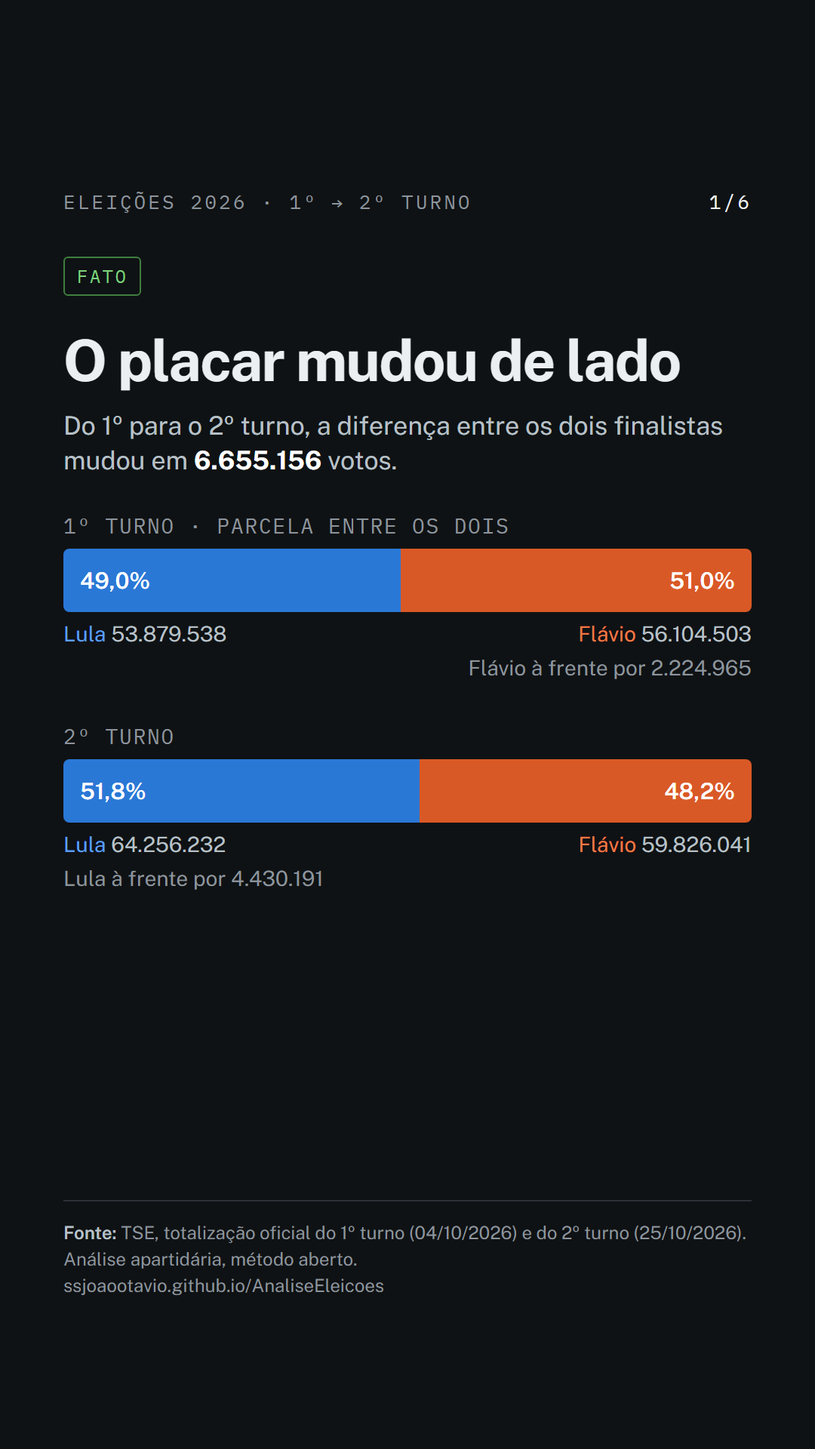
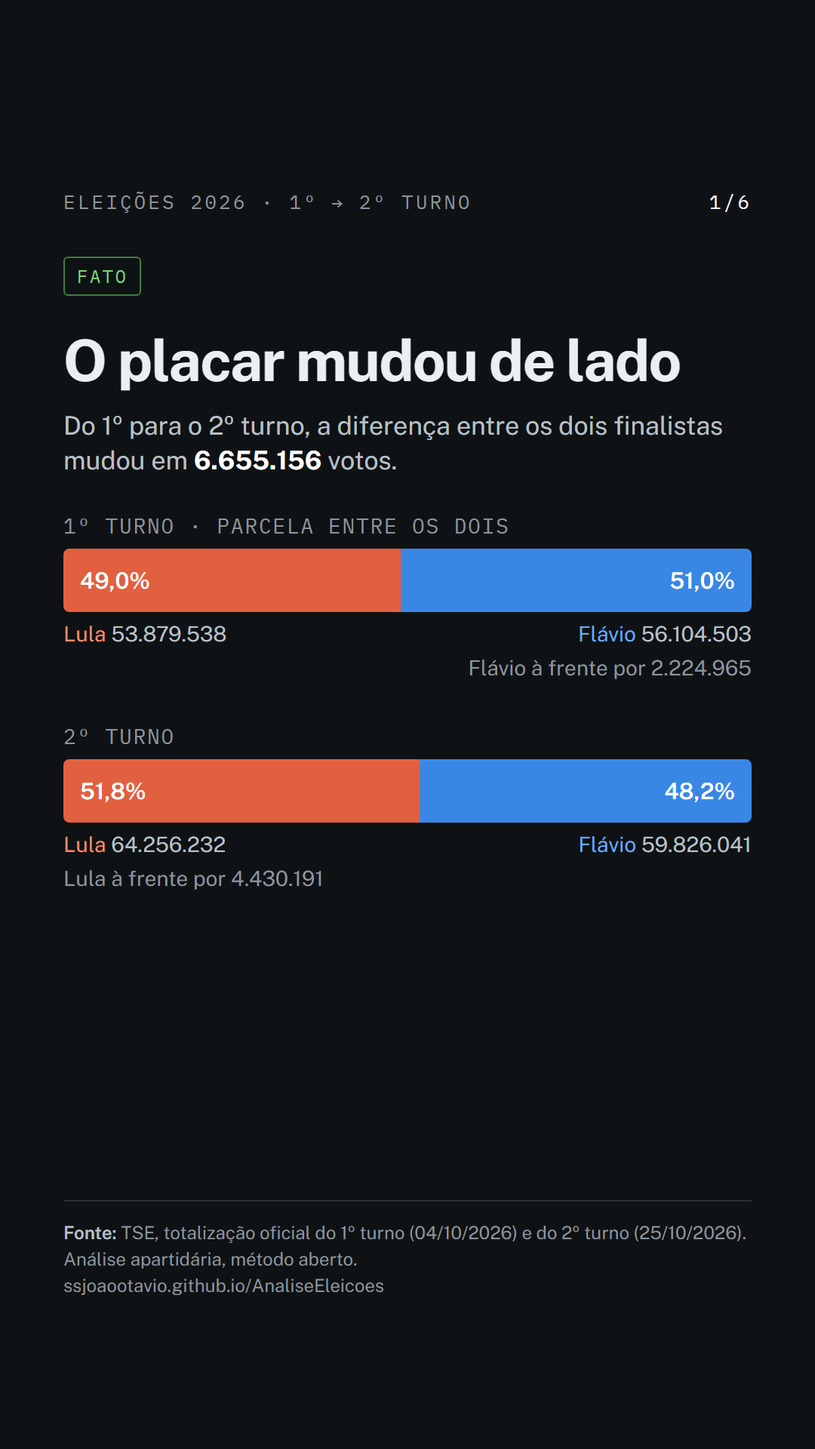
Relatório: ajustes da revisão de design
- Cores: Lula vermelho-alaranjado, Flávio azul, mesma luminosidade
- Explica pontos percentuais; 'não interpretar' vira 'instável'
- Tabelas simétricas (líder e % de cada turno) no lugar de 'Lula no duelo'
- UFs e abstenção em barras pareadas 1º/2º turno
- Matriz P3: células instáveis só com faixa; aviso de limite do modelo
- Municípios: trocas de líder nas duas direções no lugar da dispersão
- Stories regerados com as cores novas

Changed region(s): [[0.0611, 0.5, 0.9472, 0.5938], [0.0611, 0.375, 0.9472, 0.4688]]

diff --git a/relatorio_eleicoes_2026.html b/relatorio_eleicoes_2026.html
@@ -1,20 +1,21 @@
 <!doctype html>
 <html lang="pt-BR"><head><meta charset="utf-8"><meta name="viewport" content="width=device-width,initial-scale=1,viewport-fit=cover"><title>Análise Eleições 2026</title><link rel="preconnect" href="https://fonts.googleapis.com"><link rel="preconnect" href="https://fonts.gstatic.com" crossorigin><link rel="stylesheet" href="https://fonts.googleapis.com/css2?family=IBM+Plex+Mono:wght@400;500&family=Public+Sans:wght@400;500;600;700&display=swap"><style>
 /* Layout: relatório de leitura em coluna única, seções separadas por régua fina; gráficos sem moldura; só a matriz do P3 e as dicas flutuantes têm caixa.
-   Cor: cromo neutro azulado-cinza; os únicos matizes de dados são os dois finalistas (azul e laranja, mesmo peso) e cinzas para o resto. */
+   Cor: cromo neutro azulado-cinza; os únicos matizes de dados são os dois finalistas (Lula vermelho-alaranjado, Flávio azul, mesma saturação e luminosidade) e cinzas para o resto.
+   Todo gráfico com os dois finalistas escreve o nome junto da cor, para não depender só dela. */
 :root{
   --bg:#f4f5f6; --surface:#ffffff; --ink:#13171b; --ink2:#464e56; --muted:#6f7780; --line:#d9dde1; --grid:#e8ebee; --wash:#eceef0;
-  --lula:#2a78d6; --flavio:#eb6834; --outros:#7f8a96; --bn:#aab3bd; --abs:#d5dae0;
+  --lula:#d24a2b; --flavio:#2a78d6; --outros:#7f8a96; --bn:#aab3bd; --abs:#d5dae0;
   --good:#0a7d0a; --warn:#a15c00; --crit:#b3261e;
   --font:'Public Sans',system-ui,-apple-system,'Segoe UI',Roboto,sans-serif; --mono:'IBM Plex Mono',ui-monospace,SFMono-Regular,Menlo,monospace;
 }
 @media (prefers-color-scheme:dark){:root:not([data-theme="light"]){
   --bg:#0f1214; --surface:#161a1d; --ink:#eceff1; --ink2:#b9c0c7; --muted:#8c949c; --line:#2b3136; --grid:#22272b; --wash:#1d2226;
-  --lula:#3987e5; --flavio:#d95926; --outros:#8793a0; --bn:#5d6772; --abs:#343b42;
+  --lula:#e2603f; --flavio:#3987e5; --outros:#8793a0; --bn:#5d6772; --abs:#343b42;
   --good:#4cc24c; --warn:#e0a13a; --crit:#f08a82; color-scheme:dark;}}
 :root[data-theme="dark"]{
   --bg:#0f1214; --surface:#161a1d; --ink:#eceff1; --ink2:#b9c0c7; --muted:#8c949c; --line:#2b3136; --grid:#22272b; --wash:#1d2226;
-  --lula:#3987e5; --flavio:#d95926; --outros:#8793a0; --bn:#5d6772; --abs:#343b42;
+  --lula:#e2603f; --flavio:#3987e5; --outros:#8793a0; --bn:#5d6772; --abs:#343b42;
   --good:#4cc24c; --warn:#e0a13a; --crit:#f08a82; color-scheme:dark;}
 *{box-sizing:border-box}
 body{background:var(--bg);color:var(--ink);font-family:var(--font);font-size:15px;line-height:1.55;margin:0;
@@ -171,12 +172,13 @@ canvas{max-width:100%;display:block;border-bottom:1px solid var(--line);border-l
 <!-- ================= P1 UF ================= -->
 <section id="uf">
   <div class="head"><div class="eyebrow">P1 · Unidades da Federação</div><h2>Como cada UF se moveu</h2><div class="tags"><span class="tag fato">Fato</span></div></div>
+  <p class="callout"><b>Ponto percentual</b> é a diferença entre duas porcentagens. Se a abstenção foi de 21% para 19%, ela caiu <b>2 pontos percentuais</b> (e não 2%). Nas tabelas, “Diferença” é quantos votos o líder teve a mais que o outro finalista.</p>
   <div class="fig" style="margin-top:0"><h3>Parcela de cada finalista no duelo, 1º e 2º turno</h3>
-    <div class="sub">Votos do finalista divididos pela soma dos votos dos dois. Círculo vazio: 1º turno. Círculo cheio: 2º turno. A cor indica quem liderava naquele turno; 50% é o empate. Ordenado pelo 2º turno.</div>
-    <div class="legend"><span><i class="sw" style="background:var(--lula)"></i>Lula na frente</span><span><i class="sw" style="background:var(--flavio)"></i>Flávio na frente</span><span class="muted">○ 1º turno &nbsp; ● 2º turno</span></div>
+    <div class="sub">Para cada UF, uma barra por turno: votos de cada finalista divididos pela soma dos votos dos dois. A linha tracejada marca 50%, o empate. Ordenado pelo 2º turno. “trocou” marca a UF em que o líder mudou.</div>
+    <div class="legend"><span><i class="sw" style="background:var(--lula)"></i>Lula</span><span><i class="sw" style="background:var(--flavio)"></i>Flávio</span><span class="muted">barra de cima: 1º turno · barra de baixo: 2º turno</span></div>
     <div class="chart" id="ch-dumb"></div><div id="tv-dumb"></div></div>
-  <div class="fig"><h3>Variação da abstenção, em pontos percentuais</h3>
-    <div class="sub">Abstenção do 2º turno menos a do 1º, sobre os aptos de cada UF. Barra à esquerda: menos abstenção no 2º turno.</div>
+  <div class="fig"><h3>Abstenção por UF, 1º e 2º turno</h3>
+    <div class="sub">Parte dos eleitores aptos de cada UF que não foi votar. Barra de cima: 1º turno. Barra de baixo, mais forte: 2º turno. Ordenado pelo 2º turno.</div>
     <div class="chart" id="ch-abst"></div><div id="tv-abst"></div></div>
   <div class="fig"><h3>Tabela completa por UF</h3><div class="sub">Clique no cabeçalho para ordenar. “Exterior” é o voto no exterior (ZZ).</div><div class="scroll" id="tb-uf"></div></div>
 </section>
@@ -187,20 +189,20 @@ canvas{max-width:100%;display:block;border-bottom:1px solid var(--line);border-l
   <div class="tiles" id="mun-tiles"></div>
   <p class="muted" style="font-size:13.5px;margin-top:12px" id="mun-note"></p>
 
-  <div class="fig"><h3>Cada município: parcela no duelo, 1º contra 2º turno</h3>
-    <div class="sub">Cada ponto é um município (duelo com pelo menos 100 votos nos dois turnos). Acima da diagonal, a parcela de Lula no duelo cresceu; abaixo, a de Flávio cresceu. Os anéis marcam as capitais. Passe o mouse ou toque para identificar.</div>
-    <div class="chart" id="ch-scatter"></div><div class="muted" style="font-size:12.5px" id="sc-note"></div></div>
+  <div class="fig"><h3>Municípios que trocaram de líder entre os turnos</h3>
+    <div class="sub">As duas direções, no mesmo formato. Líder = quem teve mais votos entre os dois finalistas no município.</div>
+    <div class="cols2" id="flips"></div></div>
 
   <div class="fig"><h3>Capitais</h3><div class="scroll" id="tb-cap"></div></div>
 
   <div class="fig"><h3>Explorar qualquer município</h3>
-    <div class="sub">Busque pelo nome ou filtre. “Margem curta” são os municípios em que a diferença entre os finalistas no 2º turno foi de até 10 pontos percentuais do duelo.</div>
+    <div class="sub">Busque pelo nome ou filtre. “Margem curta” são os municípios em que a diferença entre os finalistas no 2º turno foi de até 10 pontos percentuais (por exemplo, 55% contra 45%).</div>
     <div class="controls">
       <input type="search" id="q" placeholder="Buscar município" aria-label="Buscar município">
       <select id="f-uf" aria-label="UF"><option value="">Todas as UFs</option></select>
       <label class="ck"><input type="checkbox" id="f-cap"> Só capitais</label>
       <label class="ck"><input type="checkbox" id="f-marg"> Margem curta no 2º turno</label>
-      <label class="ck"><input type="checkbox" id="f-flip"> Só quem mudou de líder</label>
+      <label class="ck"><input type="checkbox" id="f-flip"> Só quem trocou de líder</label>
     </div>
     <div class="scroll" id="tb-mun"></div><div class="pager" id="pg-mun"></div></div>
 </section>
@@ -208,7 +210,7 @@ canvas{max-width:100%;display:block;border-bottom:1px solid var(--line);border-l
 <!-- ================= P3 MIGRACAO ================= -->
 <section id="migracao">
   <div class="head"><div class="eyebrow">P3 · Migração entre turnos</div><h2>Para onde foram os eleitores de cada grupo</h2><div class="tags"><span class="tag est">Estimativa</span><span class="tag fato">Limites aritméticos</span></div></div>
-  <p>O TSE não publica como cada eleitor votou nos dois turnos, só os totais por município. A matriz abaixo é uma <b>estimativa</b> feita a partir da variação entre os municípios (inferência ecológica). Cada célula mostra a estimativa nacional, a faixa que ela ocupa quando o cálculo é refeito de sete jeitos e uma nota de robustez. <b>Se a faixa é larga, o dado não identifica a célula e ela não deve ser interpretada.</b></p>
+  <p>O TSE não publica como cada eleitor votou nos dois turnos, só os totais por município. A matriz abaixo é uma <b>estimativa</b> feita a partir da variação entre os municípios (inferência ecológica). Cada célula mostra a estimativa nacional, a faixa que ela ocupa quando o cálculo é refeito de sete jeitos e uma nota de robustez. <b>Se a faixa é larga, a célula aparece como “instável”: o dado não identifica esse fluxo, então mostramos só a faixa, sem número único.</b> Células marcadas “no limite do modelo” encostaram em 0% ou 100%, valores que o modelo não pode ultrapassar; o número pode ser efeito dessa regra.</p>
   <div class="controls"><div class="seg" id="seg-orig" role="group" aria-label="Número de origens">
     <button aria-pressed="true" data-g="5_ORIGENS">5 origens</button><button aria-pressed="false" data-g="4_ORIGENS_OUTROS_JUNTO_COM_BRANCO_NULO">4 origens (outros + branco/nulo juntos)</button></div></div>
   <div class="scroll"><div class="matrix" id="matrix" role="group" aria-label="Matriz de transição estimada"></div></div>
@@ -223,7 +225,7 @@ canvas{max-width:100%;display:block;border-bottom:1px solid var(--line);border-l
     <div class="scroll" id="tb-sim"></div>
     <p class="callout warn" style="margin-top:14px">O intervalo de bootstrap mede só o ruído de amostragem entre municípios. Quando o comportamento dos eleitores depende do perfil político do município, ele deixa de cobrir o valor verdadeiro. Por isso esta página não o chama de intervalo de confiança. O cenário extremo é um teste de estresse nosso, não uma afirmação sobre a eleição real.</p></div>
 
-  <div class="fig"><h3>Balanço por UF</h3><div class="sub">Variação líquida de eleitores por categoria. “Parcela de Lula no ganho dos dois” só aparece quando os dois finalistas ganharam votos na UF.</div><div class="scroll" id="tb-bal"></div></div>
+  <div class="fig"><h3>Balanço por UF</h3><div class="sub">Variação líquida de eleitores por categoria. A última coluna divide o ganho somado dos dois finalistas entre eles e só aparece quando os dois ganharam votos na UF.</div><div class="scroll" id="tb-bal"></div></div>
 </section>
 
 <!-- ================= P4 HORARIO ================= -->
@@ -341,7 +343,7 @@ const leaderChip=(l,td)=>{const w=el('span',{class:'chip'},td);if(l==='L'||l==='
   tile('hero','var(--lula)','Lula, 2º turno',N(r2.L),fx(pv(r2.L,r2),2)+'% dos válidos · 1º turno: '+fx(pv(r1.L,r1),2)+'%');
   tile('hero','var(--flavio)','Flávio, 2º turno',N(r2.F),fx(pv(r2.F,r2),2)+'% dos válidos · 1º turno: '+fx(pv(r1.F,r1),2)+'%');
   tile('',null,'Margem no 2º turno',N(Math.abs(r2.L-r2.F)),'votos de diferença · '+fx(Math.abs(p(r2.L,r2)-p(r2.F,r2)),2)+' pontos percentuais do duelo');
-  tile('',null,'Abstenção',fx(r2.abst/r2.aptos*100,2)+'%','1º turno: '+fx(r1.abst/r1.aptos*100,2)+'% · variação '+sg((r2.abst/r2.aptos-r1.abst/r1.aptos)*100,2,' pp'));
+  tile('',null,'Abstenção',fx(r2.abst/r2.aptos*100,2)+'%','1º turno: '+fx(r1.abst/r1.aptos*100,2)+'% · variação '+sg((r2.abst/r2.aptos-r1.abst/r1.aptos)*100,2,' pontos percentuais'));
   tile('',null,'Branco e nulo',N(v2.BN),'1º turno: '+N(v1.BN)+' · variação '+sN(v2.BN-v1.BN));
   tile('',null,'Comparecimento',N(r2.comp),'1º turno: '+N(r1.comp)+' · variação '+sN(r2.comp-r1.comp));
 })();
@@ -402,47 +404,53 @@ tableView('tv-cand',['Candidato','Nº','Votos','% dos válidos'],D.cand1.filter(
 /* ---------- UF ---------- */
 const UF=D.uf.map(u=>{const a=u.r1,b=u.r2;const o={uf:u.uf,a,b};
   o.s1=a.L/(a.L+a.F)*100;o.s2=b.L/(b.L+b.F)*100;o.ab1=a.abst/a.aptos*100;o.ab2=b.abst/b.aptos*100;
-  o.l1=a.L>a.F?'L':a.F>a.L?'F':'=';o.l2=b.L>b.F?'L':b.F>b.L?'F':'=';o.dAb=o.ab2-o.ab1;o.dL=b.L-a.L;o.dF=b.F-a.F;return o;});
+  o.l1=a.L>a.F?'L':a.F>a.L?'F':'=';o.l2=b.L>b.F?'L':b.F>b.L?'F':'=';o.dAb=o.ab2-o.ab1;o.dL=b.L-a.L;o.dF=b.F-a.F;
+  o.df1=Math.abs(a.L-a.F);o.df2=Math.abs(b.L-b.F);return o;});
+/* parcela do líder no duelo (os dois finalistas tratados igual) */
+const leadPct=(l,s)=>s==null?null:(l==='L'?s:l==='F'?100-s:50);
+const leaderPct=(l,s,td)=>{leaderChip(l,td);const p=leadPct(l,s);if(p!=null&&l!=='=')td.appendChild(document.createTextNode(' '+fx(p,1)+'%'));};
+const LNAME=l=>l==='L'?'Lula':l==='F'?'Flávio':'—';
+/* barra 100%: Lula à esquerda, Flávio à direita, cada um com nome e % */
+function duelBar(g,x,y,w,h,s,showText){
+  const wl=w*s/100;S('rect',{x:x,y:y,width:Math.max(wl-1,0),height:h,fill:css('--lula')},g);S('rect',{x:x+wl+1,y:y,width:Math.max(w-wl-1,0),height:h,fill:css('--flavio')},g);
+  if(showText){S('text',{x:x+6,y:y+h/2+4,fill:'#fff','font-size':11,'font-weight':600},g,fx(s,1)+'%');S('text',{x:x+w-6,y:y+h/2+4,'text-anchor':'end',fill:'#fff','font-size':11,'font-weight':600},g,fx(100-s,1)+'%');}
+}
 function drawDumb(){
-  const host=document.getElementById('ch-dumb');host.textContent='';const W=host.clientWidth||320,narrow=W<520,labW=narrow?58:78,pad=14,rh=24,H=UF.length*rh+44;
-  const rows=UF.slice().sort((x,y)=>y.s2-x.s2);
-  const lo=Math.floor(Math.min(...rows.map(r=>Math.min(r.s1,r.s2)))/5)*5-2,hi=Math.ceil(Math.max(...rows.map(r=>Math.max(r.s1,r.s2)))/5)*5+2,tw=W-labW-pad;
-  const X=v=>labW+(v-lo)/(hi-lo)*tw;const svg=S('svg',{viewBox:'0 0 '+W+' '+H,width:W,height:H,role:'img','aria-label':'Parcela de cada finalista no duelo por UF'},host);
-  for(let t=Math.ceil(lo/10)*10;t<=hi;t+=10){S('line',{x1:X(t),x2:X(t),y1:26,y2:H-18,stroke:css(t===50?'--ink2':'--grid'),'stroke-width':t===50?1.5:1},svg);S('text',{x:X(t),y:H-4,'text-anchor':'middle',class:'mono'},svg,t+'%');}
-  S('text',{x:X(50)-6,y:12,'text-anchor':'end',class:'mono'},svg,'← mais Flávio');S('text',{x:X(50)+6,y:12,'text-anchor':'start',class:'mono'},svg,'mais Lula →');
-  rows.forEach((r,i)=>{const y=30+i*rh,cy=y+rh/2-1;const g=S('g',{class:'hit',tabindex:0},svg);
-    S('rect',{x:0,y:y,width:W,height:rh,fill:'transparent'},g);S('rect',{x:0,y:y,width:W,height:rh,fill:'none',class:'focusring'},g);
-    S('text',{x:0,y:cy+4,class:'strong'},g,UFN(r.uf));
-    const c1=css(r.l1==='L'?'--lula':'--flavio'),c2=css(r.l2==='L'?'--lula':'--flavio');
-    S('line',{x1:X(r.s1),x2:X(r.s2),y1:cy,y2:cy,stroke:css('--muted'),'stroke-width':2,'stroke-linecap':'round'},g);
-    S('circle',{cx:X(r.s1),cy:cy,r:4.5,fill:css('--bg'),stroke:c1,'stroke-width':2},g);
-    S('circle',{cx:X(r.s2),cy:cy,r:5,fill:c2,stroke:css('--bg'),'stroke-width':2},g);
-    if(r.l1!==r.l2)S('text',{x:X(Math.max(r.s1,r.s2))+10,y:cy+4,class:'mono'},g,'mudou de líder');
-    bindTip(g,UFN(r.uf),[['Lula no duelo, 1º turno',fx(r.s1,1)+'%'],['Lula no duelo, 2º turno',fx(r.s2,1)+'%'],['Flávio no duelo, 1º turno',fx(100-r.s1,1)+'%'],['Flávio no duelo, 2º turno',fx(100-r.s2,1)+'%'],['Variação de Lula',sg(r.s2-r.s1,1,' pp')]]);});
-  /* ajuste: eixo no rodapé */
+  const host=document.getElementById('ch-dumb');host.textContent='';const W=host.clientWidth||320,narrow=W<520,labW=narrow?62:84,pad=8,bh=15,rh=bh*2+16,H=UF.length*rh+30;
+  const rows=UF.slice().sort((x,y)=>y.s2-x.s2),tw=W-labW-pad;
+  const svg=S('svg',{viewBox:'0 0 '+W+' '+H,width:W,height:H,role:'img','aria-label':'Parcela de Lula e de Flávio no duelo por UF, 1º e 2º turno'},host);
+  S('text',{x:labW,y:12,class:'mono'},svg,'Lula ←');S('text',{x:W-pad,y:12,'text-anchor':'end',class:'mono'},svg,'→ Flávio');
+  const x50=labW+tw/2;
+  rows.forEach((r,i)=>{const y=22+i*rh;const g=S('g',{class:'hit',tabindex:0},svg);
+    S('rect',{x:0,y:y,width:W,height:rh-4,fill:'transparent'},g);S('rect',{x:0,y:y,width:W,height:rh-4,fill:'none',class:'focusring'},g);
+    S('text',{x:0,y:y+bh-2,class:'strong'},g,UFN(r.uf));
+    S('text',{x:0,y:y+bh*2+1,class:'mono'},g,r.l1!==r.l2?'trocou':'');
+    S('text',{x:labW-6,y:y+bh-3,'text-anchor':'end',class:'mono'},g,'1º');S('text',{x:labW-6,y:y+bh*2+1,'text-anchor':'end',class:'mono'},g,'2º');
+    duelBar(g,labW,y,tw,bh,r.s1,tw>220);duelBar(g,labW,y+bh+3,tw,bh,r.s2,tw>220);
+    bindTip(g,UFN(r.uf),[['Líder no 1º turno',LNAME(r.l1)+' · '+fx(leadPct(r.l1,r.s1),1)+'%'],['Líder no 2º turno',LNAME(r.l2)+' · '+fx(leadPct(r.l2,r.s2),1)+'%'],['Lula, 1º e 2º',fx(r.s1,1)+'% · '+fx(r.s2,1)+'%'],['Flávio, 1º e 2º',fx(100-r.s1,1)+'% · '+fx(100-r.s2,1)+'%'],['Diferença, 1º e 2º',N(r.df1)+' · '+N(r.df2)+' votos']]);});
+  S('line',{x1:x50,x2:x50,y1:16,y2:H-2,stroke:css('--ink'),'stroke-width':1,'stroke-dasharray':'3 3',opacity:.6},svg);
+  S('text',{x:x50,y:12,'text-anchor':'middle',class:'mono'},svg,'50%');
 }
 function drawAbst(){
-  const host=document.getElementById('ch-abst');host.textContent='';const W=host.clientWidth||320,narrow=W<520,labW=narrow?58:78,pad=60,rh=20,rows=UF.slice().sort((a,b)=>a.dAb-b.dAb),H=rows.length*rh+10;
-  const mx=Math.max(...rows.map(r=>Math.abs(r.dAb))),mn=Math.min(...rows.map(r=>r.dAb)),hi=Math.max(...rows.map(r=>r.dAb));
-  const tw=W-labW-pad*1.4,sc=tw/(hi-mn),x0=labW+(-mn)*sc+pad*.5;
-  const svg=S('svg',{viewBox:'0 0 '+W+' '+H,width:W,height:H,role:'img','aria-label':'Variação da abstenção por UF'},host);
-  S('line',{x1:x0,x2:x0,y1:0,y2:H,stroke:css('--ink2')},svg);
-  rows.forEach((r,i)=>{const y=4+i*rh,w=Math.abs(r.dAb)*sc;const g=S('g',{class:'hit',tabindex:0},svg);
-    S('rect',{x:0,y:y,width:W,height:rh,fill:'transparent'},g);
-    S('text',{x:0,y:y+14,class:'strong'},g,UFN(r.uf));
-    const x=r.dAb>=0?x0:x0-w;S('rect',{x:x,y:y+4,width:Math.max(w,1),height:11,fill:css('--ink2')},g);S('rect',{x:x,y:y+4,width:Math.max(w,1),height:11,fill:'none',class:'focusring'},g);
-    S('text',{x:r.dAb>=0?x0+w+5:x0-w-5,y:y+14,'text-anchor':r.dAb>=0?'start':'end'},g,sg(r.dAb,2));
-    bindTip(g,UFN(r.uf),[['Abstenção, 1º turno',fx(r.ab1,2)+'%'],['Abstenção, 2º turno',fx(r.ab2,2)+'%'],['Variação',sg(r.dAb,2,' pp')]]);});
+  const host=document.getElementById('ch-abst');host.textContent='';const W=host.clientWidth||320,narrow=W<520,labW=narrow?62:84,pad=56,bh=11,rh=bh*2+12,rows=UF.slice().sort((a,b)=>b.ab2-a.ab2),H=rows.length*rh+8;
+  const mx=Math.max(...rows.map(r=>Math.max(r.ab1,r.ab2))),tw=W-labW-pad,X=v=>v/mx*tw;
+  const svg=S('svg',{viewBox:'0 0 '+W+' '+H,width:W,height:H,role:'img','aria-label':'Abstenção por UF, 1º e 2º turno'},host);
+  rows.forEach((r,i)=>{const y=4+i*rh;const g=S('g',{class:'hit',tabindex:0},svg);
+    S('rect',{x:0,y:y,width:W,height:rh-2,fill:'transparent'},g);S('rect',{x:0,y:y,width:W,height:rh-2,fill:'none',class:'focusring'},g);
+    S('text',{x:0,y:y+bh+5,class:'strong'},g,UFN(r.uf));
+    [[r.ab1,'--muted',0,'1º'],[r.ab2,'--ink2',bh+2,'2º']].forEach(([v,c,dy,t])=>{S('rect',{x:labW,y:y+dy,width:Math.max(X(v),1),height:bh,fill:css(c),opacity:t==='1º'?.55:1},g);S('text',{x:labW+X(v)+5,y:y+dy+bh-1,class:'mono'},g,t+' '+fx(v,1)+'%');});
+    bindTip(g,UFN(r.uf),[['Abstenção, 1º turno',fx(r.ab1,2)+'%'],['Abstenção, 2º turno',fx(r.ab2,2)+'%'],['Diferença',sg(r.dAb,2,' pontos percentuais')]]);});
 }
-tableView('tv-dumb',['UF','Lula no duelo, 1º','Lula no duelo, 2º','Variação (pp)','Líder 1º','Líder 2º'],UF.map(r=>[UFN(r.uf),fx(r.s1,2)+'%',fx(r.s2,2)+'%',sg(r.s2-r.s1,2),r.l1==='L'?'Lula':r.l1==='F'?'Flávio':'—',r.l2==='L'?'Lula':r.l2==='F'?'Flávio':'—']));
-tableView('tv-abst',['UF','Abstenção 1º','Abstenção 2º','Variação (pp)'],UF.map(r=>[UFN(r.uf),fx(r.ab1,2)+'%',fx(r.ab2,2)+'%',sg(r.dAb,2)]));
+tableView('tv-dumb',['UF','Líder 1º','% do líder 1º','Líder 2º','% do líder 2º','Diferença 1º (votos)','Diferença 2º (votos)'],UF.map(r=>[UFN(r.uf),LNAME(r.l1),fx(leadPct(r.l1,r.s1),2)+'%',LNAME(r.l2),fx(leadPct(r.l2,r.s2),2)+'%',N(r.df1),N(r.df2)]));
+tableView('tv-abst',['UF','Abstenção 1º','Abstenção 2º','Diferença (pontos percentuais)'],UF.map(r=>[UFN(r.uf),fx(r.ab1,2)+'%',fx(r.ab2,2)+'%',sg(r.dAb,2)]));
 sortable(document.getElementById('tb-uf'),[
  {k:'uf',label:'UF',left:true,first:1,f:r=>UFN(r.uf)},
- {k:'a',label:'Lula 1º',v:r=>r.a.L,f:r=>N(r.a.L)},{k:'b',label:'Lula 2º',v:r=>r.b.L,f:r=>N(r.b.L)},{k:'dL',label:'Δ Lula',f:r=>sN(r.dL)},
- {k:'a2',label:'Flávio 1º',v:r=>r.a.F,f:r=>N(r.a.F)},{k:'b2',label:'Flávio 2º',v:r=>r.b.F,f:r=>N(r.b.F)},{k:'dF',label:'Δ Flávio',f:r=>sN(r.dF)},
- {k:'s2',label:'Lula no duelo 2º',f:r=>fx(r.s2,1)+'%'},{k:'ab1',label:'Abst. 1º',f:r=>fx(r.ab1,1)+'%'},{k:'ab2',label:'Abst. 2º',f:r=>fx(r.ab2,1)+'%'},
- {k:'l1',label:'Líder 1º',left:true,r:(r,td)=>leaderChip(r.l1,td)},
- {k:'l2',label:'Líder 2º',left:true,r:(r,td)=>{leaderChip(r.l2,td);if(r.l1!==r.l2)el('span',{class:'flip'},td,'mudou');}}
+ {k:'l1',label:'Líder 1º (%)',left:true,r:(r,td)=>leaderPct(r.l1,r.s1,td)},
+ {k:'l2',label:'Líder 2º (%)',left:true,r:(r,td)=>{leaderPct(r.l2,r.s2,td);if(r.l1!==r.l2)el('span',{class:'flip'},td,'trocou');}},
+ {k:'df1',label:'Diferença 1º',f:r=>N(r.df1)},{k:'df2',label:'Diferença 2º',f:r=>N(r.df2)},
+ {k:'a',label:'Lula 1º',v:r=>r.a.L,f:r=>N(r.a.L)},{k:'b',label:'Lula 2º',v:r=>r.b.L,f:r=>N(r.b.L)},
+ {k:'a2',label:'Flávio 1º',v:r=>r.a.F,f:r=>N(r.a.F)},{k:'b2',label:'Flávio 2º',v:r=>r.b.F,f:r=>N(r.b.F)},
+ {k:'ab1',label:'Abst. 1º',f:r=>fx(r.ab1,1)+'%'},{k:'ab2',label:'Abst. 2º',f:r=>fx(r.ab2,1)+'%'}
 ],UF,{sortKey:'uf',sortDir:1});
 
 /* ---------- municípios ---------- */
@@ -457,52 +465,39 @@ const C=D.mun_cols;const M=D.mun.map(a=>{const o={};C.forEach((k,i)=>o[k]=a[i]);
   tile('var(--lula)','Municípios em que Lula liderou, 2º turno',N(cnt('l2','L')),'1º turno: '+N(cnt('l1','L')));
   tile('var(--flavio)','Municípios em que Flávio liderou, 2º turno',N(cnt('l2','F')),'1º turno: '+N(cnt('l1','F')));
   const fl=M.filter(m=>m.l1==='F'&&m.l2==='L').length,lf=M.filter(m=>m.l1==='L'&&m.l2==='F').length;
-  tile(null,'Mudaram de líder',N(fl+lf),N(fl)+' de Flávio para Lula · '+N(lf)+' de Lula para Flávio');
+  tile(null,'Trocaram de líder',N(fl+lf),N(fl)+' de Flávio para Lula · '+N(lf)+' de Lula para Flávio');
   const w=M.filter(m=>m.l2==='L').reduce((s,m)=>s+m.aptos2,0)/M.reduce((s,m)=>s+m.aptos2,0)*100;
   tile(null,'Eleitorado dos municípios onde Lula liderou',fx(w,1)+'%','dos aptos, 2º turno');
   const eq=M.filter(m=>m.l2==='=').length;
   document.getElementById('mun-note').textContent='Líder = quem teve mais votos entre os dois finalistas no município. '+N(eq)+' municípios têm empate ou nenhum voto nos finalistas no 2º turno (inclui seções não instaladas e locais do exterior sem votos) e não entram em nenhuma contagem de liderança. A soma de todos os municípios bate com o total do Brasil.';
 })();
-const SC=M.filter(m=>m.d1>=100&&m.d2>=100);
-document.getElementById('sc-note').textContent=nf.format(SC.length)+' municípios no gráfico; '+nf.format(M.length-SC.length)+' ficaram de fora por terem duelo com menos de 100 votos em algum turno.';
-let scPts=[];
-function drawScatter(){
-  const host=document.getElementById('ch-scatter');host.textContent='';const W=Math.min(host.clientWidth||320,760),narrow=W<420,H=Math.round(W*(narrow?.95:.78));
-  const wrap=el('div',{style:'position:relative;width:'+W+'px;height:'+(H+28)+'px;margin:0 auto 0 0'},host);
-  const cv=el('canvas',{width:W*devicePixelRatio,height:H*devicePixelRatio,style:'width:'+W+'px;height:'+H+'px;position:absolute;left:30px;top:0;'+'width:'+(W-30)+'px'},wrap);
-  const cw=W-30,ctx=cv.getContext('2d');cv.width=cw*devicePixelRatio;cv.height=H*devicePixelRatio;cv.style.width=cw+'px';cv.style.height=H+'px';ctx.scale(devicePixelRatio,devicePixelRatio);
-  const X=v=>v/100*cw,Y=v=>H-v/100*H;
-  ctx.strokeStyle=css('--grid');ctx.lineWidth=1;for(let t=10;t<100;t+=10){ctx.beginPath();ctx.moveTo(X(t),0);ctx.lineTo(X(t),H);ctx.moveTo(0,Y(t));ctx.lineTo(cw,Y(t));ctx.stroke();}
-  ctx.strokeStyle=css('--ink2');ctx.lineWidth=1.5;ctx.beginPath();ctx.moveTo(X(50),0);ctx.lineTo(X(50),H);ctx.moveTo(0,Y(50));ctx.lineTo(cw,Y(50));ctx.stroke();
-  ctx.setLineDash([5,4]);ctx.beginPath();ctx.moveTo(0,H);ctx.lineTo(cw,0);ctx.stroke();ctx.setLineDash([]);
-  scPts=[];ctx.fillStyle=css('--outros');ctx.globalAlpha=.4;
-  SC.forEach(m=>{const x=X(m.s1),y=Y(m.s2);scPts.push([x,y,m]);ctx.beginPath();ctx.arc(x,y,1.7,0,6.283);ctx.fill();});
-  ctx.globalAlpha=1;ctx.lineWidth=2;
-  SC.filter(m=>m.cap).forEach(m=>{const x=X(m.s1),y=Y(m.s2);ctx.strokeStyle=css('--ink');ctx.fillStyle=css('--bg');ctx.beginPath();ctx.arc(x,y,5,0,6.283);ctx.fill();ctx.stroke();});
-  for(let t=0;t<=100;t+=25){const a=el('span',{class:'mono',style:'position:absolute;left:'+(30+X(t)-(t===100?22:t===0?0:11))+'px;top:'+(H+6)+'px;font-size:11px;color:var(--muted)'},wrap,t+'%');const b=el('span',{class:'mono',style:'position:absolute;left:0;top:'+(Y(t)-(t===100?-1:t===0?12:6))+'px;font-size:11px;color:var(--muted);width:26px;text-align:right'},wrap,t+'%');}
-  el('span',{class:'mono',style:'position:absolute;right:0;top:'+(H+6)+'px;font-size:11px;color:var(--muted)'},wrap,'');
-  const lab1=el('div',{class:'mono muted',style:'font-size:11px;margin:30px 0 0 30px;'},host,'Eixo horizontal: Lula no duelo, 1º turno. Eixo vertical: Lula no duelo, 2º turno. Pontos acima da diagonal: a parcela de Lula subiu.');
-  cv.addEventListener('pointermove',e=>{const r=cv.getBoundingClientRect(),px=e.clientX-r.left,py=e.clientY-r.top;let best=null,bd=14*14;
-    for(const p of scPts){const d=(p[0]-px)**2+(p[1]-py)**2;if(d<bd&&(p[2].cap||!best||!best[2].cap)){bd=d;best=p;}}
-    if(best){const m=best[2];showTip(e,TC(m.nome)+' ('+m.uf+')',[['Lula no duelo, 1º',fx(m.s1,1)+'%'],['Lula no duelo, 2º',fx(m.s2,1)+'%'],['Variação',sg(m.s2-m.s1,1,' pp')],['Aptos',N(m.aptos2)]]);}else hideTip();});
-  cv.addEventListener('pointerleave',hideTip);
-}
+/* trocas de líder nas duas direções, lado a lado e com o mesmo formato */
+(function(){
+  const host=document.getElementById('flips');host.textContent='';
+  [['F','L','De Flávio para Lula'],['L','F','De Lula para Flávio']].forEach(([a,b,t])=>{
+    const all=M.filter(m=>m.l1===a&&m.l2===b).sort((x,y)=>y.aptos2-x.aptos2),top=all.slice(0,10);
+    const col=el('div',null,host);const h=el('h3',{class:'chip'},col);const i=el('i',null,h);i.style.background=b==='L'?'var(--lula)':'var(--flavio)';h.appendChild(document.createTextNode(t+': '+N(all.length)+' municípios'));
+    el('div',{class:'muted',style:'font-size:12.5px;margin:2px 0 8px'},col,all.length>top.length?'Os '+top.length+' com mais eleitores:':'Todos:');
+    const tb=el('tbody',null,el('table',null,el('div',{class:'scroll'},col)));
+    top.forEach(m=>{const tr=el('tr',null,tb);el('td',{class:'l'},tr,TC(m.nome)+' ('+m.uf+')');
+      el('td',null,tr,LNAME(m.l1)+' '+fx(leadPct(m.l1,m.s1),1)+'% → '+LNAME(m.l2)+' '+fx(leadPct(m.l2,m.s2),1)+'%');el('td',{class:'muted'},tr,N(m.aptos2)+' aptos');});
+  });
+  el('p',{class:'muted',style:'font-size:12.5px;margin-top:10px'},host.parentNode,'Percentuais: parcela do líder de cada turno entre os dois finalistas (1º → 2º). Para ver todos, marque “Só quem trocou de líder” na tabela abaixo.');
+})();
 const CAP=M.filter(m=>m.cap).sort((a,b)=>a.uf<b.uf?-1:1);
 sortable(document.getElementById('tb-cap'),[
  {k:'nome',label:'Capital',left:true,first:1,f:r=>TC(r.nome)},
  {k:'uf',label:'UF',left:true,first:1},
- {k:'s1',label:'Lula no duelo 1º',f:r=>fx(r.s1,1)+'%'},{k:'s2',label:'Lula no duelo 2º',f:r=>fx(r.s2,1)+'%'},{k:'dS',label:'Variação (pp)',f:r=>sg(r.dS,1)},
- {k:'ab1',label:'Abst. 1º',f:r=>fx(r.ab1,1)+'%'},{k:'ab2',label:'Abst. 2º',f:r=>fx(r.ab2,1)+'%'},
- {k:'l1',label:'Líder 1º',left:true,r:(r,td)=>leaderChip(r.l1,td)},{k:'l2',label:'Líder 2º',left:true,r:(r,td)=>{leaderChip(r.l2,td);if(r.flip)el('span',{class:'flip'},td,'mudou');}}
+ {k:'l1',label:'Líder 1º (%)',left:true,r:(r,td)=>leaderPct(r.l1,r.s1,td)},{k:'l2',label:'Líder 2º (%)',left:true,r:(r,td)=>{leaderPct(r.l2,r.s2,td);if(r.flip)el('span',{class:'flip'},td,'trocou');}},
+ {k:'ab1',label:'Abst. 1º',f:r=>fx(r.ab1,1)+'%'},{k:'ab2',label:'Abst. 2º',f:r=>fx(r.ab2,1)+'%'}
 ],CAP,{sortKey:'uf',sortDir:1});
 (function(){
   const sel=document.getElementById('f-uf');[...new Set(M.map(m=>m.uf))].sort().forEach(u=>el('option',{value:u},sel,UFN(u)));
   const norm=s=>s.normalize('NFD').replace(/[̀-ͯ]/g,'').toLowerCase();
   const tb=sortable(document.getElementById('tb-mun'),[
    {k:'nome',label:'Município',left:true,first:1,f:r=>TC(r.nome)},{k:'uf',label:'UF',left:true,first:1},{k:'aptos2',label:'Aptos',f:r=>N(r.aptos2)},
-   {k:'s1',label:'Lula no duelo 1º',f:r=>r.s1==null?'—':fx(r.s1,1)+'%'},{k:'s2',label:'Lula no duelo 2º',f:r=>r.s2==null?'—':fx(r.s2,1)+'%'},{k:'dS',label:'Variação (pp)',f:r=>r.dS==null?'—':sg(r.dS,1)},
-   {k:'marg2',label:'Margem 2º (pp)',first:1,f:r=>r.marg2==null?'—':fx(r.marg2,1)},{k:'ab2',label:'Abst. 2º',f:r=>r.ab2==null?'—':fx(r.ab2,1)+'%'},
-   {k:'l1',label:'Líder 1º',left:true,r:(r,td)=>leaderChip(r.l1,td)},{k:'l2',label:'Líder 2º',left:true,r:(r,td)=>{leaderChip(r.l2,td);if(r.flip)el('span',{class:'flip'},td,'mudou');}}
+   {k:'l1',label:'Líder 1º (%)',left:true,r:(r,td)=>leaderPct(r.l1,r.s1,td)},{k:'l2',label:'Líder 2º (%)',left:true,r:(r,td)=>{leaderPct(r.l2,r.s2,td);if(r.flip)el('span',{class:'flip'},td,'trocou');}},
+   {k:'marg2',label:'Diferença 2º (pontos percentuais)',first:1,f:r=>r.marg2==null?'—':fx(r.marg2,1)},{k:'ab2',label:'Abst. 2º',f:r=>r.ab2==null?'—':fx(r.ab2,1)+'%'}
   ],M,{sortKey:'aptos2',sortDir:-1,per:25,pager:document.getElementById('pg-mun')});
   function apply(){const q=norm(document.getElementById('q').value.trim()),u=sel.value,cp=document.getElementById('f-cap').checked,mg=document.getElementById('f-marg').checked,fl=document.getElementById('f-flip').checked;
     tb.redraw(M.filter(m=>(!q||norm(m.nome).includes(q))&&(!u||m.uf===u)&&(!cp||m.cap)&&(!mg||(m.marg2!=null&&m.d2>=100&&m.marg2<=10))&&(!fl||m.flip)));}
@@ -519,16 +514,20 @@ const rcls=r=>r.ROBUSTEZ==='ROBUSTA'?'r':r.ROBUSTEZ==='MODERADA'?'m':'x';
 const ICON={r:'<svg width="12" height="12" viewBox="0 0 12 12" aria-hidden="true"><path d="M2 6.5l2.6 2.6L10 3.4" fill="none" stroke="currentColor" stroke-width="2"/></svg>',
   m:'<svg width="12" height="12" viewBox="0 0 12 12" aria-hidden="true"><circle cx="6" cy="6" r="4.3" fill="none" stroke="currentColor" stroke-width="1.6"/><path d="M6 1.7a4.3 4.3 0 010 8.6z" fill="currentColor"/></svg>',
   x:'<svg width="12" height="12" viewBox="0 0 12 12" aria-hidden="true"><path d="M2.5 2.5l7 7M9.5 2.5l-7 7" stroke="currentColor" stroke-width="2"/></svg>'};
-const RTXT={r:'Robusta',m:'Moderada',x:'Não robusta'};
+const RTXT={r:'Robusta',m:'Moderada',x:'Instável'};
 function badge(parent,c){const s=el('span',{class:'bd'},parent);s.innerHTML=ICON[c];s.appendChild(document.createTextNode(' '+RTXT[c]));}
-['r','m','x'].forEach(c=>{const h=document.getElementById('lg-'+c);h.innerHTML=ICON[c];h.style.color=c==='r'?'var(--good)':c==='m'?'var(--warn)':'var(--crit)';h.appendChild(document.createTextNode(' '+RTXT[c]+(c==='r'?' (faixa até 10 pp)':c==='m'?' (10 a 25 pp)':' (mais de 25 pp: não interpretar)')));});
+['r','m','x'].forEach(c=>{const h=document.getElementById('lg-'+c);h.innerHTML=ICON[c];h.style.color=c==='r'?'var(--good)':c==='m'?'var(--warn)':'var(--crit)';h.appendChild(document.createTextNode(' '+RTXT[c]+(c==='r'?' (faixa de até 10 pontos percentuais)':c==='m'?' (faixa de 10 a 25 pontos)':' (faixa acima de 25 pontos: o modelo não consegue estimar)')));});
 function drawMatrix(){
   const m=document.getElementById('matrix');m.textContent='';const rows=GRAN==='5_ORIGENS'?['LULA','FLAVIO','OUTROS','BRANCO_NULO','ABSTENCAO']:['LULA','FLAVIO','OUTROS_E_BRANCO_NULO','ABSTENCAO'];
   el('div',{class:'mh'},m,'Eleitor do 1º turno em…');DEST.forEach(d=>{const h=el('div',{class:'mh'},m);el('span',{class:'mono muted',style:'font-size:10.5px'},h,'vai para');el('b',null,h,DNAME[d]);});
   rows.forEach(o=>{const first=cellOf(GRAN,o,'LULA');const h=el('div',{class:'mh row'},m);el('b',null,h,ONAME[o]);el('span',{class:'muted num',style:'font-size:12px'},h,N(first.ORIGEM_ELEITORES_1T)+' eleitores');
-    DEST.forEach(d=>{const r=cellOf(GRAN,o,d),c=rcls(r);const b=el('button',{class:'cell '+c,'aria-pressed':String(SEL[0]===o&&SEL[1]===d),'aria-label':ONAME[o]+' para '+DNAME[d]+': '+fx(r.ESTIMATIVA_BRASIL_PCT_DA_ORIGEM,1)+'%, '+RTXT[c]},m);
+    DEST.forEach(d=>{const r=cellOf(GRAN,o,d),c=rcls(r);const b=el('button',{class:'cell '+c,'aria-pressed':String(SEL[0]===o&&SEL[1]===d),'aria-label':ONAME[o]+' para '+DNAME[d]+': '+(c==='x'?'instável, faixa '+fx(r.MIN_ENTRE_ESPECIFICACOES,0)+'% a '+fx(r.MAX_ENTRE_ESPECIFICACOES,0)+'%':fx(r.ESTIMATIVA_BRASIL_PCT_DA_ORIGEM,1)+'%, '+RTXT[c])},m);
       if(c!=='x')b.style.background='color-mix(in srgb,var(--ink) '+Math.round(r.ESTIMATIVA_BRASIL_PCT_DA_ORIGEM*0.22)+'%,var(--surface))';
-      el('span',{class:'pct num'},b,fx(r.ESTIMATIVA_BRASIL_PCT_DA_ORIGEM,1)+'%');el('span',{class:'rg'},b,'faixa '+fx(r.MIN_ENTRE_ESPECIFICACOES,0)+'–'+fx(r.MAX_ENTRE_ESPECIFICACOES,0)+'%');badge(b,c);
+      /* célula instável: sem número único, só a faixa, para não sugerir uma conclusão que o modelo não sustenta */
+      if(c==='x'){el('span',{class:'pct num'},b,fx(r.MIN_ENTRE_ESPECIFICACOES,0)+'% a '+fx(r.MAX_ENTRE_ESPECIFICACOES,0)+'%');el('span',{class:'rg'},b,'sem estimativa única');}
+      else{el('span',{class:'pct num'},b,fx(r.ESTIMATIVA_BRASIL_PCT_DA_ORIGEM,1)+'%');el('span',{class:'rg'},b,'faixa '+fx(r.MIN_ENTRE_ESPECIFICACOES,0)+'–'+fx(r.MAX_ENTRE_ESPECIFICACOES,0)+'%');}
+      if(r.CANTO_DO_MODELO_0_OU_100==='sim'&&c!=='x')el('span',{class:'rg',title:'O modelo não aceita valores abaixo de 0% nem acima de 100%; quando a estimativa encosta nesses limites, ela pode ser efeito da regra, não do dado.'},b,'no limite do modelo*');
+      badge(b,c);
       b.onclick=()=>{SEL=[o,d];drawMatrix();drawDetail();};});});
 }
 function drawDetail(){
@@ -536,11 +535,11 @@ function drawDetail(){
   const h=el('h3',null,box,ONAME[SEL[0]]+' no 1º turno → '+DNAME[SEL[1]]+' no 2º turno');
   const kv=el('div',{class:'kv'},box);
   const add=(a,b)=>{const d=el('div',null,kv);el('b',null,d,a);d.appendChild(document.createTextNode(b));};
-  add('Estimativa (Brasil)',fx(r.ESTIMATIVA_BRASIL_PCT_DA_ORIGEM,1)+'% da origem ≈ '+N(r.ESTIMATIVA_ELEITORES)+' eleitores');
-  add('Faixa entre as 7 versões',fx(r.MIN_ENTRE_ESPECIFICACOES,1)+'% a '+fx(r.MAX_ENTRE_ESPECIFICACOES,1)+'% (amplitude '+fx(r.AMPLITUDE_PP,1)+' pp)');
+  add('Estimativa (Brasil)',c==='x'?'Instável: o modelo não consegue estimar esta célula. O valor de cada versão aparece abaixo só para mostrar a variação.':fx(r.ESTIMATIVA_BRASIL_PCT_DA_ORIGEM,1)+'% da origem ≈ '+N(r.ESTIMATIVA_ELEITORES)+' eleitores');
+  add('Faixa entre as 7 versões',fx(r.MIN_ENTRE_ESPECIFICACOES,1)+'% a '+fx(r.MAX_ENTRE_ESPECIFICACOES,1)+'% (amplitude de '+fx(r.AMPLITUDE_PP,1)+' pontos percentuais)');
   add('Limite aritmético (fato)',N(r.LIMITE_MIN_ELEITORES_FATO)+' a '+N(r.LIMITE_MAX_ELEITORES_FATO)+' eleitores, sem usar modelo');
   add('Ruído amostral (bootstrap)',fx(r.BOOTSTRAP_RUIDO_AMOSTRAL_INF,1)+'% a '+fx(r.BOOTSTRAP_RUIDO_AMOSTRAL_SUP,1)+'%, não é intervalo de confiança');
-  const fl=[];if(r.CANTO_DO_MODELO_0_OU_100==='sim')fl.push('colada em 0% ou 100%: pode ser efeito da restrição do modelo');if(r.ESTIMATIVA_FORA_DOS_LIMITES_FATO==='sim')fl.push('estimativa passa um pouco do limite aritmético: desajuste em alguns municípios');
+  const fl=[];if(r.CANTO_DO_MODELO_0_OU_100==='sim')fl.push('no limite do modelo (0% ou 100%): o modelo não aceita valores fora desse intervalo, então o número pode ser efeito dessa regra e não do dado');if(r.ESTIMATIVA_FORA_DOS_LIMITES_FATO==='sim')fl.push('estimativa passa um pouco do limite aritmético: desajuste em alguns municípios');
   add('Avisos',fl.length?fl.join('; '):'nenhum');
   const sp=[['Brasil',r.PCT_BRASIL],['Sem efeito de UF',r.PCT_EFEITO_FIXO_UF],['Norte',r['PCT_REGIAO_Norte']],['Nordeste',r['PCT_REGIAO_Nordeste']],['Centro-Oeste',r['PCT_REGIAO_Centro-Oeste']],['Sudeste',r['PCT_REGIAO_Sudeste']],['Sul',r['PCT_REGIAO_Sul']]];
   el('div',{class:'mono muted',style:'margin:16px 0 4px;font-size:11px;letter-spacing:.05em;text-transform:uppercase'},box,'A mesma célula nas sete versões do cálculo');
@@ -564,7 +563,7 @@ function rg(g,o,d){const r=cellOf(g,o,d);return fx(r.MIN_ENTRE_ESPECIFICACOES,0)
   document.querySelectorAll('#seg-orig button').forEach(b=>b.onclick=()=>{GRAN=b.dataset.g;SEL=GRAN==='5_ORIGENS'?['OUTROS','LULA']:['OUTROS_E_BRANCO_NULO','LULA'];document.querySelectorAll('#seg-orig button').forEach(x=>x.setAttribute('aria-pressed',String(x===b)));drawMatrix();drawDetail();});
 })();
 (function(){const S0=D.sim.resultados,box=document.getElementById('tb-sim'),t=el('table',null,box);const hr=el('tr',null,el('thead',null,t));
-  ['Cenário','Erro médio (pp)','Bootstrap cobre o verdadeiro','Faixa entre versões cobre','Células “robustas” corretas'].forEach((c,i)=>el('th',i?null:{class:'l'},hr,c));
+  ['Cenário','Erro médio (pontos percentuais)','Bootstrap cobre o verdadeiro','Faixa entre versões cobre','Células “robustas” corretas'].forEach((c,i)=>el('th',i?null:{class:'l'},hr,c));
   const nm={'homogeneo (conc=400)':'Comportamento igual em todos os municípios','heterogeneo (conc=60)':'Comportamento varia entre municípios','heterogeneo + comportamento depende do perfil politico do municipio':'Comportamento depende do perfil político do município (teste de estresse)'};
   const tb=el('tbody',null,t);S0.forEach(r=>{const tr=el('tr',null,tb);el('td',{class:'l wrap'},tr,nm[r.cenario]||r.cenario);el('td',null,tr,fx(r.erro_medio_abs_pp,1));
     [r.cobertura_IC_bootstrap,r.cobertura_faixa_entre_especificacoes].forEach(v=>{const td=el('td',null,tr);const b=el('span',{class:'barbox'},td);const bar=el('span',{class:'bar'},b);bar.style.width=(v*100*.9)+'%';const mk=el('span',{class:'mk'},b);mk.style.left=(95*.9)+'%';td.appendChild(document.createTextNode(fx(v*100,0)+'%'));});
@@ -572,7 +571,7 @@ function rg(g,o,d){const r=cellOf(g,o,d);return fx(r.MIN_ENTRE_ESPECIFICACOES,0)
   el('p',{class:'muted',style:'font-size:12.5px;margin-top:8px'},box,'A marca vertical é a cobertura ideal de 95%. “Corretas” = a estimativa ficou a até 10 pontos percentuais do valor verdadeiro.');})();
 (function(){const B=D.bal,sel=document.getElementById('tb-bal');
   const rows=B.map(b=>({uf:b.SG_UF==='BRASIL'?'Brasil':UFN(b.SG_UF),L:b.VAR_LULA,F:b.VAR_FLAVIO,O:b.VAR_OUTROS,BN:b.VAR_BRANCO_NULO,AB:b.VAR_ABSTENCAO,p:b.VAR_LULA_PCT_DO_GANHO_DOS_DOIS}));
-  sortable(sel,[{k:'uf',label:'UF',left:true,first:1},{k:'L',label:'Δ Lula',f:r=>sN(r.L)},{k:'F',label:'Δ Flávio',f:r=>sN(r.F)},{k:'O',label:'Δ Outros',f:r=>sN(r.O)},{k:'BN',label:'Δ Branco/nulo',f:r=>sN(r.BN)},{k:'AB',label:'Δ Abstenção',f:r=>sN(r.AB)},{k:'p',label:'Parcela de Lula no ganho dos dois',f:r=>r.p==null?'—':fx(r.p,1)+'%'}],rows,{sortKey:'uf',sortDir:1});})();
+  sortable(sel,[{k:'uf',label:'UF',left:true,first:1},{k:'L',label:'Δ Lula',f:r=>sN(r.L)},{k:'F',label:'Δ Flávio',f:r=>sN(r.F)},{k:'O',label:'Δ Outros',f:r=>sN(r.O)},{k:'BN',label:'Δ Branco/nulo',f:r=>sN(r.BN)},{k:'AB',label:'Δ Abstenção',f:r=>sN(r.AB)},{k:'p',label:'Ganho de Lula / de Flávio (% do ganho dos dois)',f:r=>r.p==null?'—':fx(r.p,1)+'% / '+fx(100-r.p,1)+'%'}],rows,{sortKey:'uf',sortDir:1});})();
 
 /* ---------- P4 ---------- */
 (function(){const r=D.p4.resumo,T=document.getElementById('p4-tiles');
@@ -606,7 +605,7 @@ function drawP4(){
 })();
 
 /* ---------- desenho e navegação ---------- */
-function drawAll(){drawComp();drawBal();drawCand();drawDumb();drawAbst();drawScatter();drawP4();drawDetail();}
+function drawAll(){drawComp();drawBal();drawCand();drawDumb();drawAbst();drawP4();drawDetail();}
 drawMatrix();drawAll();
 let rt;new ResizeObserver(()=>{clearTimeout(rt);rt=setTimeout(drawAll,120);}).observe(document.querySelector('.wrap'));
 matchMedia('(prefers-color-scheme:dark)').addEventListener('change',()=>setTimeout(drawAll,50));
